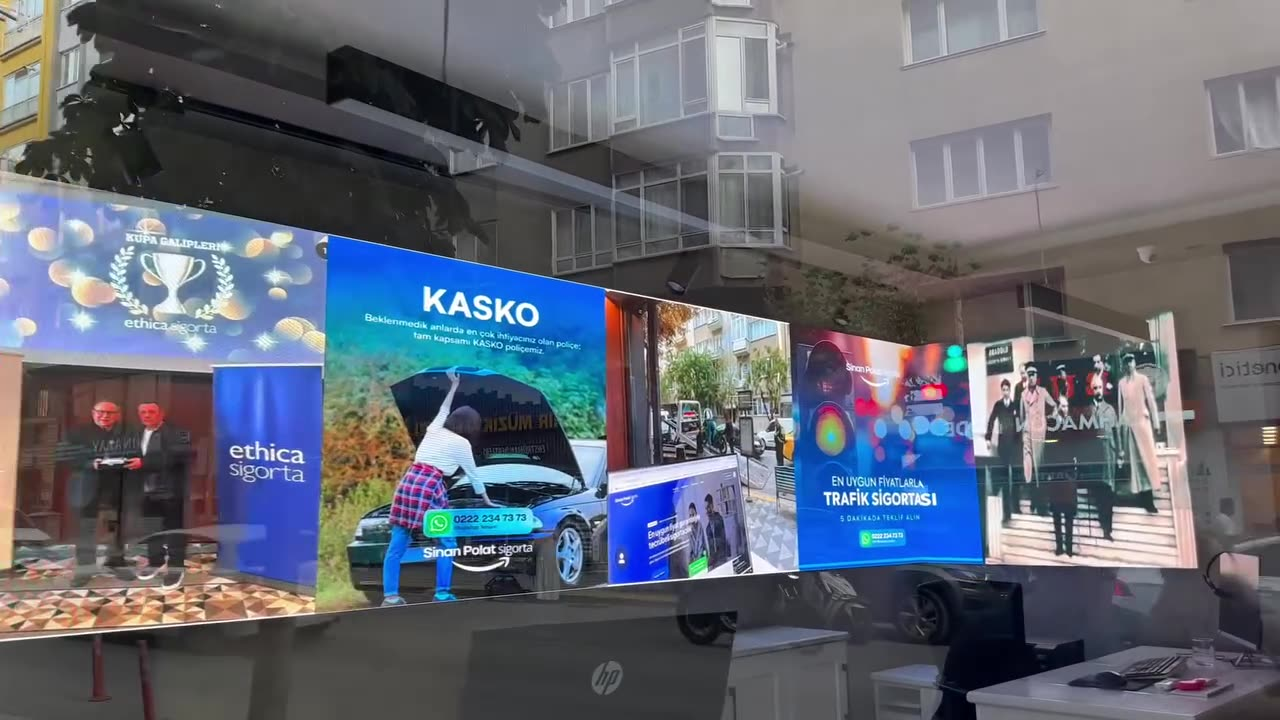
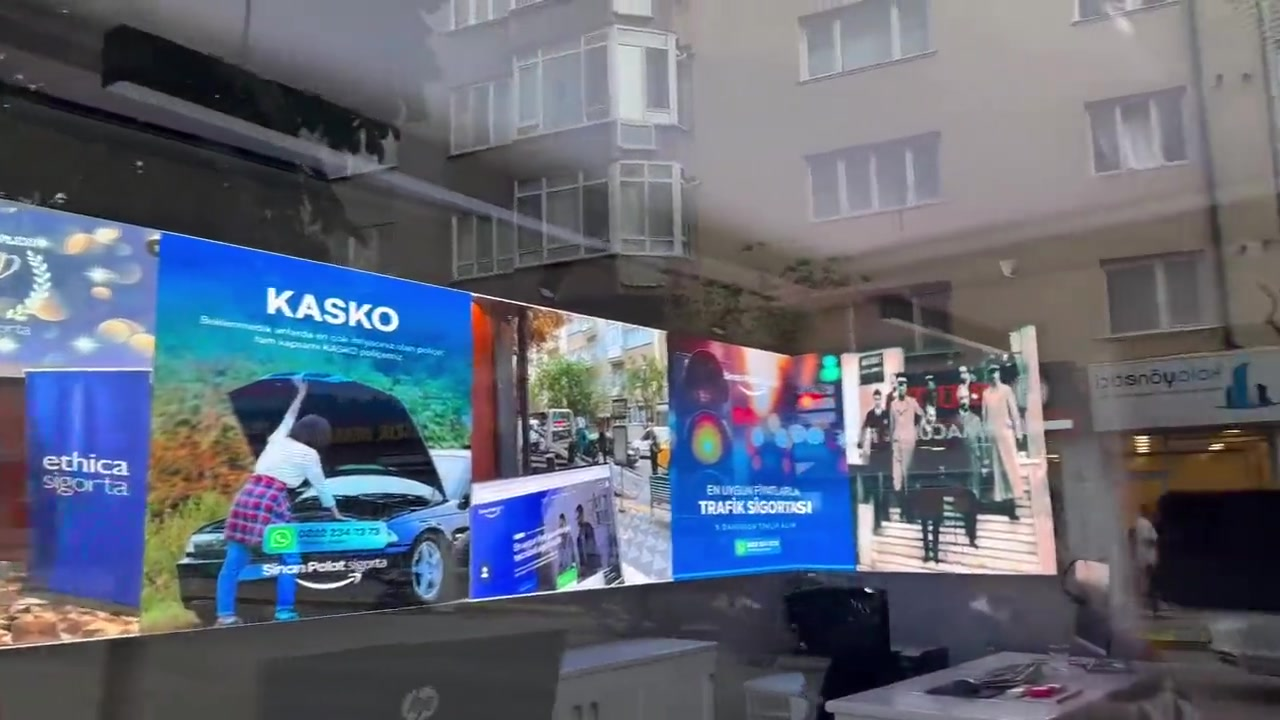
Prefer 1280 landscape clips for hero backgrounds
Swap the soft aslanturk portrait for Eskişehir iç mekân (1280×720)
and refresh posters from mid-clip frames so the hero stage stays on
the sharpest available inventory.

diff --git a/src/components/hero/Hero.tsx b/src/components/hero/Hero.tsx
@@ -7,8 +7,10 @@ interface HeroProps {
 }
 
 /**
- * Homepage hero — pack B copy (katalog) + soft-rotating field videos:
- * B vitrin · C cafe/restaurant · D lounge
+ * Homepage hero — pack B copy + soft-rotating field videos.
+ * Prefer native 1280×720 landscape first (sharpest inventory); only one
+ * high-bitrate portrait (kafe) for lounge variety. Soft 720×1280 Instagram
+ * re-encodes (e.g. aslanturk ~350 kbps) stay off the hero stage.
  */
 const HERO_SCENES: { slug: string; labelTr: string; labelEn: string }[] = [
   {
@@ -17,9 +19,9 @@ const HERO_SCENES: { slug: string; labelTr: string; labelEn: string }[] = [
     labelEn: "Storefront",
   },
   {
-    slug: "aslanturk-yesilpinar-led-ekran",
-    labelTr: "Kafe / restoran",
-    labelEn: "Cafe / restaurant",
+    slug: "eskisehir-sigorta-led-ekran-ic",
+    labelTr: "İç mekân",
+    labelEn: "Indoor",
   },
   {
     slug: "kafe-led-ekran-uygulamasi",

diff --git a/src/content/videos.ts b/src/content/videos.ts
@@ -1,6 +1,9 @@
 /**
  * Site videos re-encoded from ARLEDSCREEN's own Instagram export (@arledscreen).
  * H.264, CRF 28, no audio, +faststart. Captions use only facts from the post captions.
+ *
+ * Resolution inventory (native): two landscape 1280×720 (Eskişehir vitrin/iç),
+ * remaining clips are 720-wide portraits. Homepage hero prefers the 1280 clips.
  */
 export interface SiteVideo {
   slug: string;
